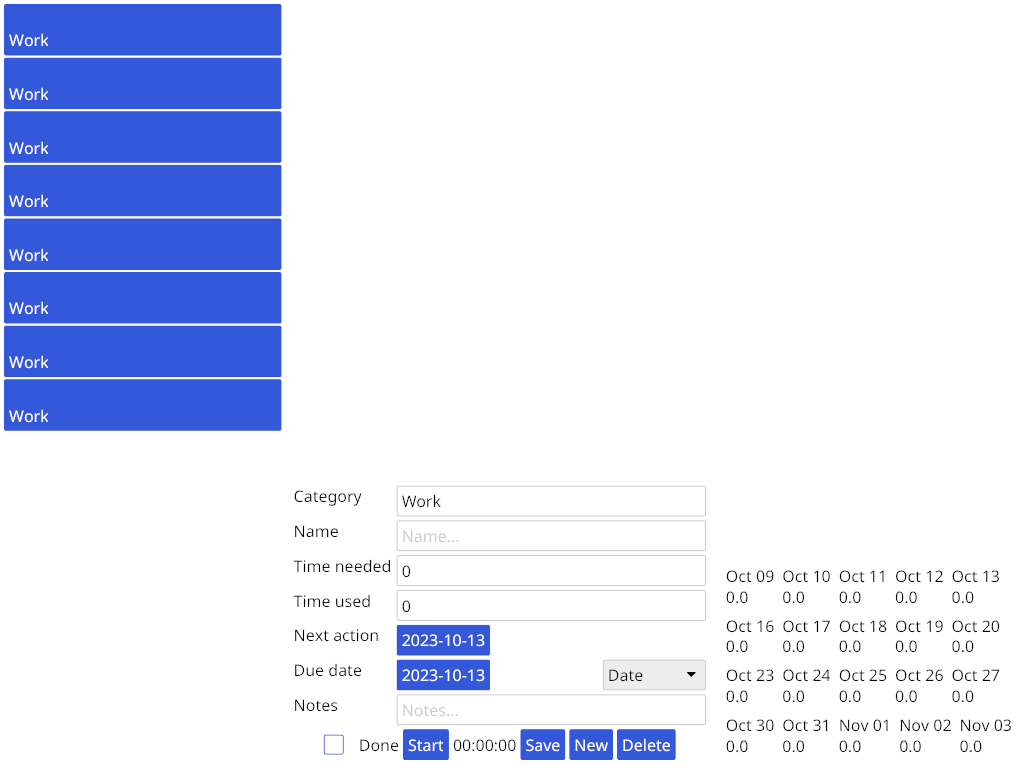
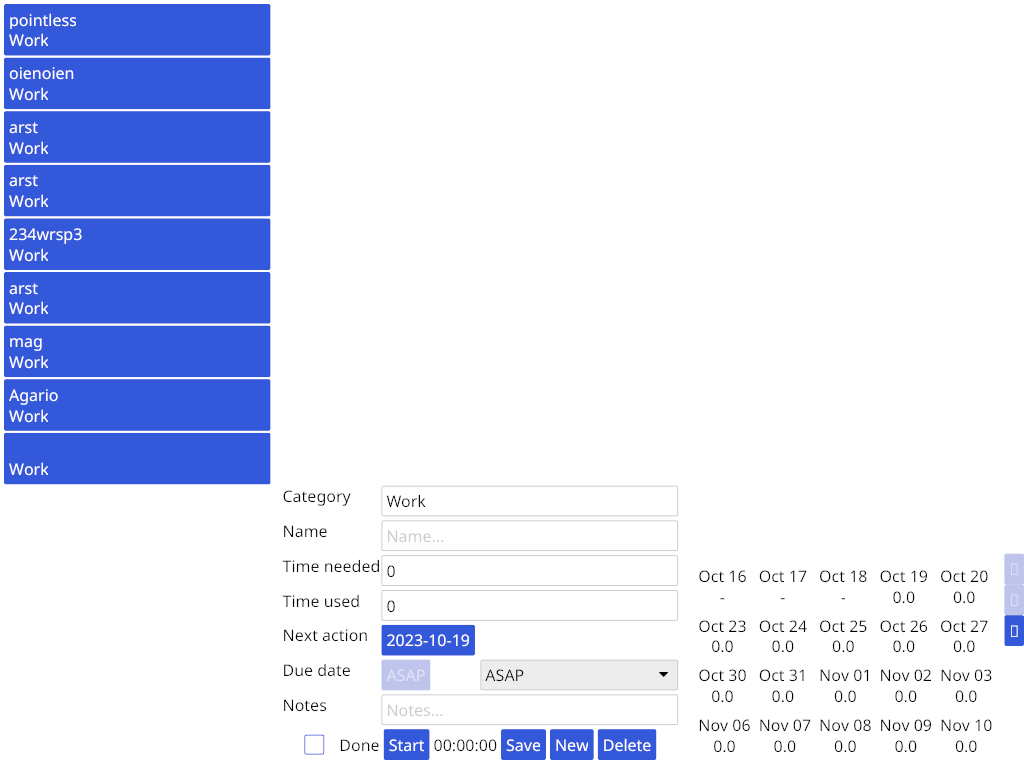
Add buttons to scroll the calendar forward in time, and update the screenshot to match

diff --git a/frontend/src/widgets/calendar.rs b/frontend/src/widgets/calendar.rs
@@ -1,7 +1,9 @@
 use iced::widget::{
     Column,
+    row,
     Row,
     column,
+    button,
     text,
 };
 
@@ -24,8 +26,27 @@ use backend::{
 
 use crate::Message;
 
+#[derive(Debug, Clone, Default)]
+pub struct CalendarState{
+    weeks_scrolled: u16,
+}
+
+impl CalendarState{
+    pub fn scroll_down(&mut self){
+        self.weeks_scrolled += 1;
+    }
+
+    pub fn scroll_up(&mut self){
+        self.weeks_scrolled = self.weeks_scrolled.saturating_sub(1);
+    }
+
+    pub fn scroll_up_max(&mut self) {
+        self.weeks_scrolled = 0;
+    }
+}
+
 // TODO this needs day-of-week headers
-pub fn calendar(schedule: &Schedule) -> Element<'static, Message>{
+pub fn calendar(schedule: &Schedule, state: &CalendarState) -> Element<'static, Message>{
     // Get the days of the week that contains the passed day
     fn week_of(d: NaiveDate) -> Vec<NaiveDate>{
         let w = d.week(Weekday::Mon);
@@ -39,21 +60,27 @@ pub fn calendar(schedule: &Schedule) -> Element<'static, Message>{
     let today = today_date();
 
     let num_weeks = 4;
-    Row::with_children(
-        week_of(today)
-            .iter()
-            .map(|d| Column::with_children(
-                (0..num_weeks)
-                    .map(|n| *d + Days::new(7*n))
-                    .map(|d| Element::from(cal_day(d, schedule.workload_on_day(d)).padding(4)))
-                    .collect()
-                ).into()
-            ).collect()
-    )
-        .width(Length::Shrink)
-        .height(Length::Shrink)
-        .padding(8)
-        .into()
+    row![
+        Row::with_children(
+            week_of(today + Days::new((7*state.weeks_scrolled).into()))
+                .iter()
+                .map(|d| Column::with_children(
+                    (0..num_weeks)
+                        .map(|n| *d + Days::new(7*n))
+                        .map(|d| Element::from(cal_day(d, schedule.workload_on_day(d)).padding(4)))
+                        .collect()
+                    ).into()
+                ).collect()
+        )
+            .width(Length::Shrink)
+            .height(Length::Shrink)
+            .padding(8),
+            column![
+                button("↑").on_press_maybe(if state.weeks_scrolled > 0 {Some(Message::ScrollUpMaxCalendar)}else{None}),
+                button("🞁").on_press_maybe(if state.weeks_scrolled > 0 {Some(Message::ScrollUpCalendar)}else{None}),
+                button("🞃").on_press(Message::ScrollDownCalendar),
+            ]
+    ].into()
 }
 
 fn cal_day(day: NaiveDate, load: Option<u32>) -> Column<'static, Message>{

diff --git a/frontend/src/main.rs b/frontend/src/main.rs
@@ -34,7 +34,10 @@ use backend::{
 
 mod widgets;
 use widgets::{
-    calendar,
+    calendar::{
+        calendar,
+        CalendarState,
+    },
     task_scroller,
     task_editor::{
         task_editor,
@@ -76,6 +79,9 @@ pub enum Message{
     NewTask,
     Mutate(MutateMessage),
     Loaded(State),
+    ScrollDownCalendar,
+    ScrollUpCalendar,
+    ScrollUpMaxCalendar,
     None,
 }
 
@@ -87,6 +93,7 @@ pub struct State{
     draft_task:    Task,
     timer_state:   TimerState,
     date_picker_state: DatePickerState,
+    calendar_state: CalendarState,
     cache:         Cache,
 }
 
@@ -126,6 +133,7 @@ impl Application for Beavor {
                         loaded_schedule: db.schedule().await,
                     },
                     db,
+                    calendar_state: Default::default(),
                 }
             }, Message::Loaded),
         )
@@ -197,6 +205,9 @@ impl Application for Beavor {
                     Message::Refresh(cache) => {state.cache = cache; Command::none()},
                     Message::Tick(_) | Message::None => Command::none(),
                     Message::Loaded(_) | Message::Mutate(_) => panic!("Should never happen"),
+                    Message::ScrollDownCalendar => {state.calendar_state.scroll_down(); Command::none()},
+                    Message::ScrollUpCalendar => {state.calendar_state.scroll_up(); Command::none()},
+                    Message::ScrollUpMaxCalendar => {state.calendar_state.scroll_up_max(); Command::none()},
                 }}
             },
         }
@@ -218,7 +229,7 @@ impl Application for Beavor {
                         .padding(8)
                         .width(Length::FillPortion(3))
                         .height(Length::FillPortion(1)),
-                    calendar(&state.cache.loaded_schedule),
+                    calendar(&state.cache.loaded_schedule, &state.calendar_state),
                 ]
                     .align_items(Alignment::End)
                     .height(Length::Fill)

diff --git a/frontend/src/widgets/task_editor.rs b/frontend/src/widgets/task_editor.rs
@@ -167,7 +167,7 @@ pub fn task_editor<'a>(draft_task: &'a Task, timer_state: &TimerState, date_pick
                     TimerState::Timing{..} => "Stop",
                     TimerState::Stopped => "Start",
                 }
-            ) .on_press(Message::ToggleTimer),
+            ).on_press(Message::ToggleTimer),
             text( format!("{:02}:{:02}:{:02}", display_time_used/3600, (display_time_used % 3600)/60, display_time_used % 60)),
             button("Save").on_press(Message::Mutate(MutateMessage::SaveDraftTask)),
             button("New").on_press(Message::NewTask),

diff --git a/frontend/src/widgets/mod.rs b/frontend/src/widgets/mod.rs
@@ -1,4 +1,4 @@
-mod calendar;
+pub mod calendar;
 pub use calendar::calendar;
 
 mod task_scroller;
